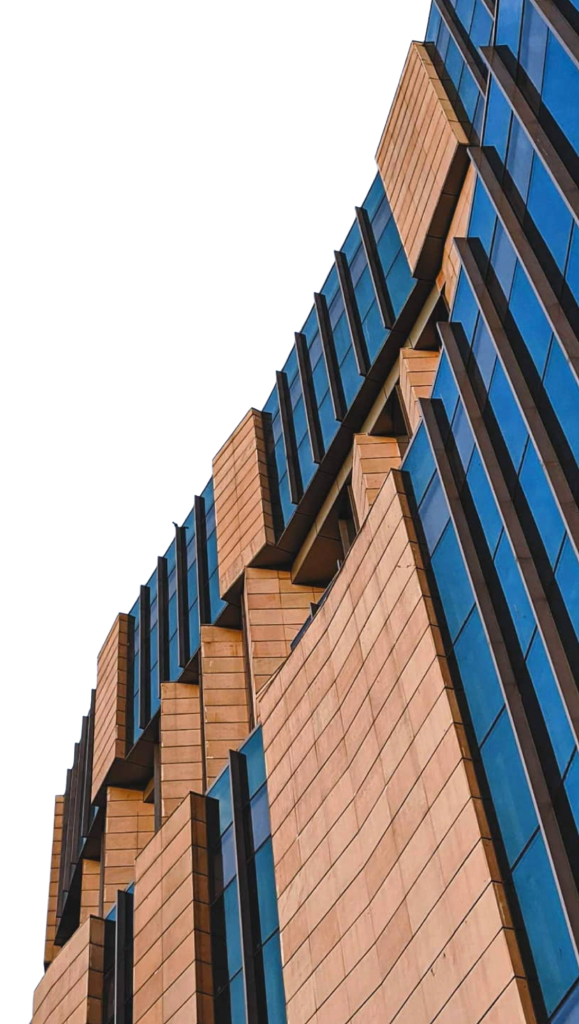
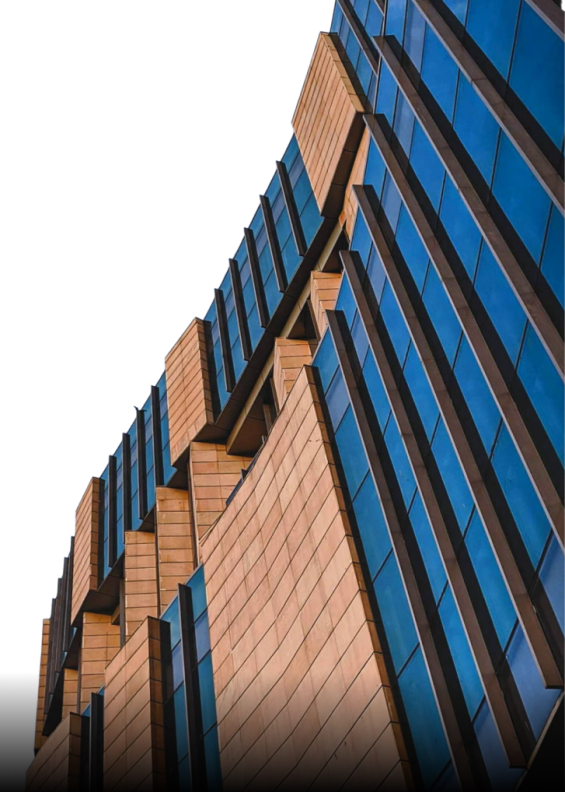
image optimisations

diff --git a/src/scss/home.scss b/src/scss/home.scss
@@ -5,10 +5,11 @@
     @include base.container;
     justify-content: space-between;
     padding-top: 0.5em;
-    background-image: url(../assets/home-bg.webp);
+    background-image: url(../assets/home-bg.png);
     background-repeat: no-repeat;
     background-position: 100% 0%;
-    background-size: math.div(579, 1024) * 100vh;
+    //background-size: math.div(500, 704) * 100vh;
+    background-size: auto 100vh;
 
     & h1 {
       @include base.heading;
@@ -42,17 +43,8 @@
       }
     }
 
-    &::after {
-      content: '';
-      position: absolute;
-      bottom: 0;
-      width: 100%;
-      height: 15vh;
-      background: linear-gradient(0deg, rgba(0, 0, 0, 1), rgba(0, 0, 0, 0));
-    }
-
     @media screen and (max-width: 768px) {
-      background-position: -100% 0%;
+      background-position: -50% 0%;
       & h1 {
         margin: 0;
         align-self: center;

diff --git a/src/scss/contact.scss b/src/scss/contact.scss
@@ -121,7 +121,7 @@
       margin: 0 1rem;
     }
 
-    @media screen and (max-width: 768px) {
+    @media screen and (max-width: 820px) {
       flex-direction: column;
       padding: 0;
 
@@ -186,18 +186,19 @@
 
       }
 
-      @media screen and (max-width: 768px) {
+      @media screen and (max-width: 820px) {
         padding: 0;
       }
     }
 
-    @media screen and (max-width: 768px) {
+    @media screen and (max-width: 820px) {
       flex-direction: column-reverse;
       height: auto;
       padding: 0;
 
       & iframe {
         width: 100%;
+        height: 40vh;
       }
 
       & div {
